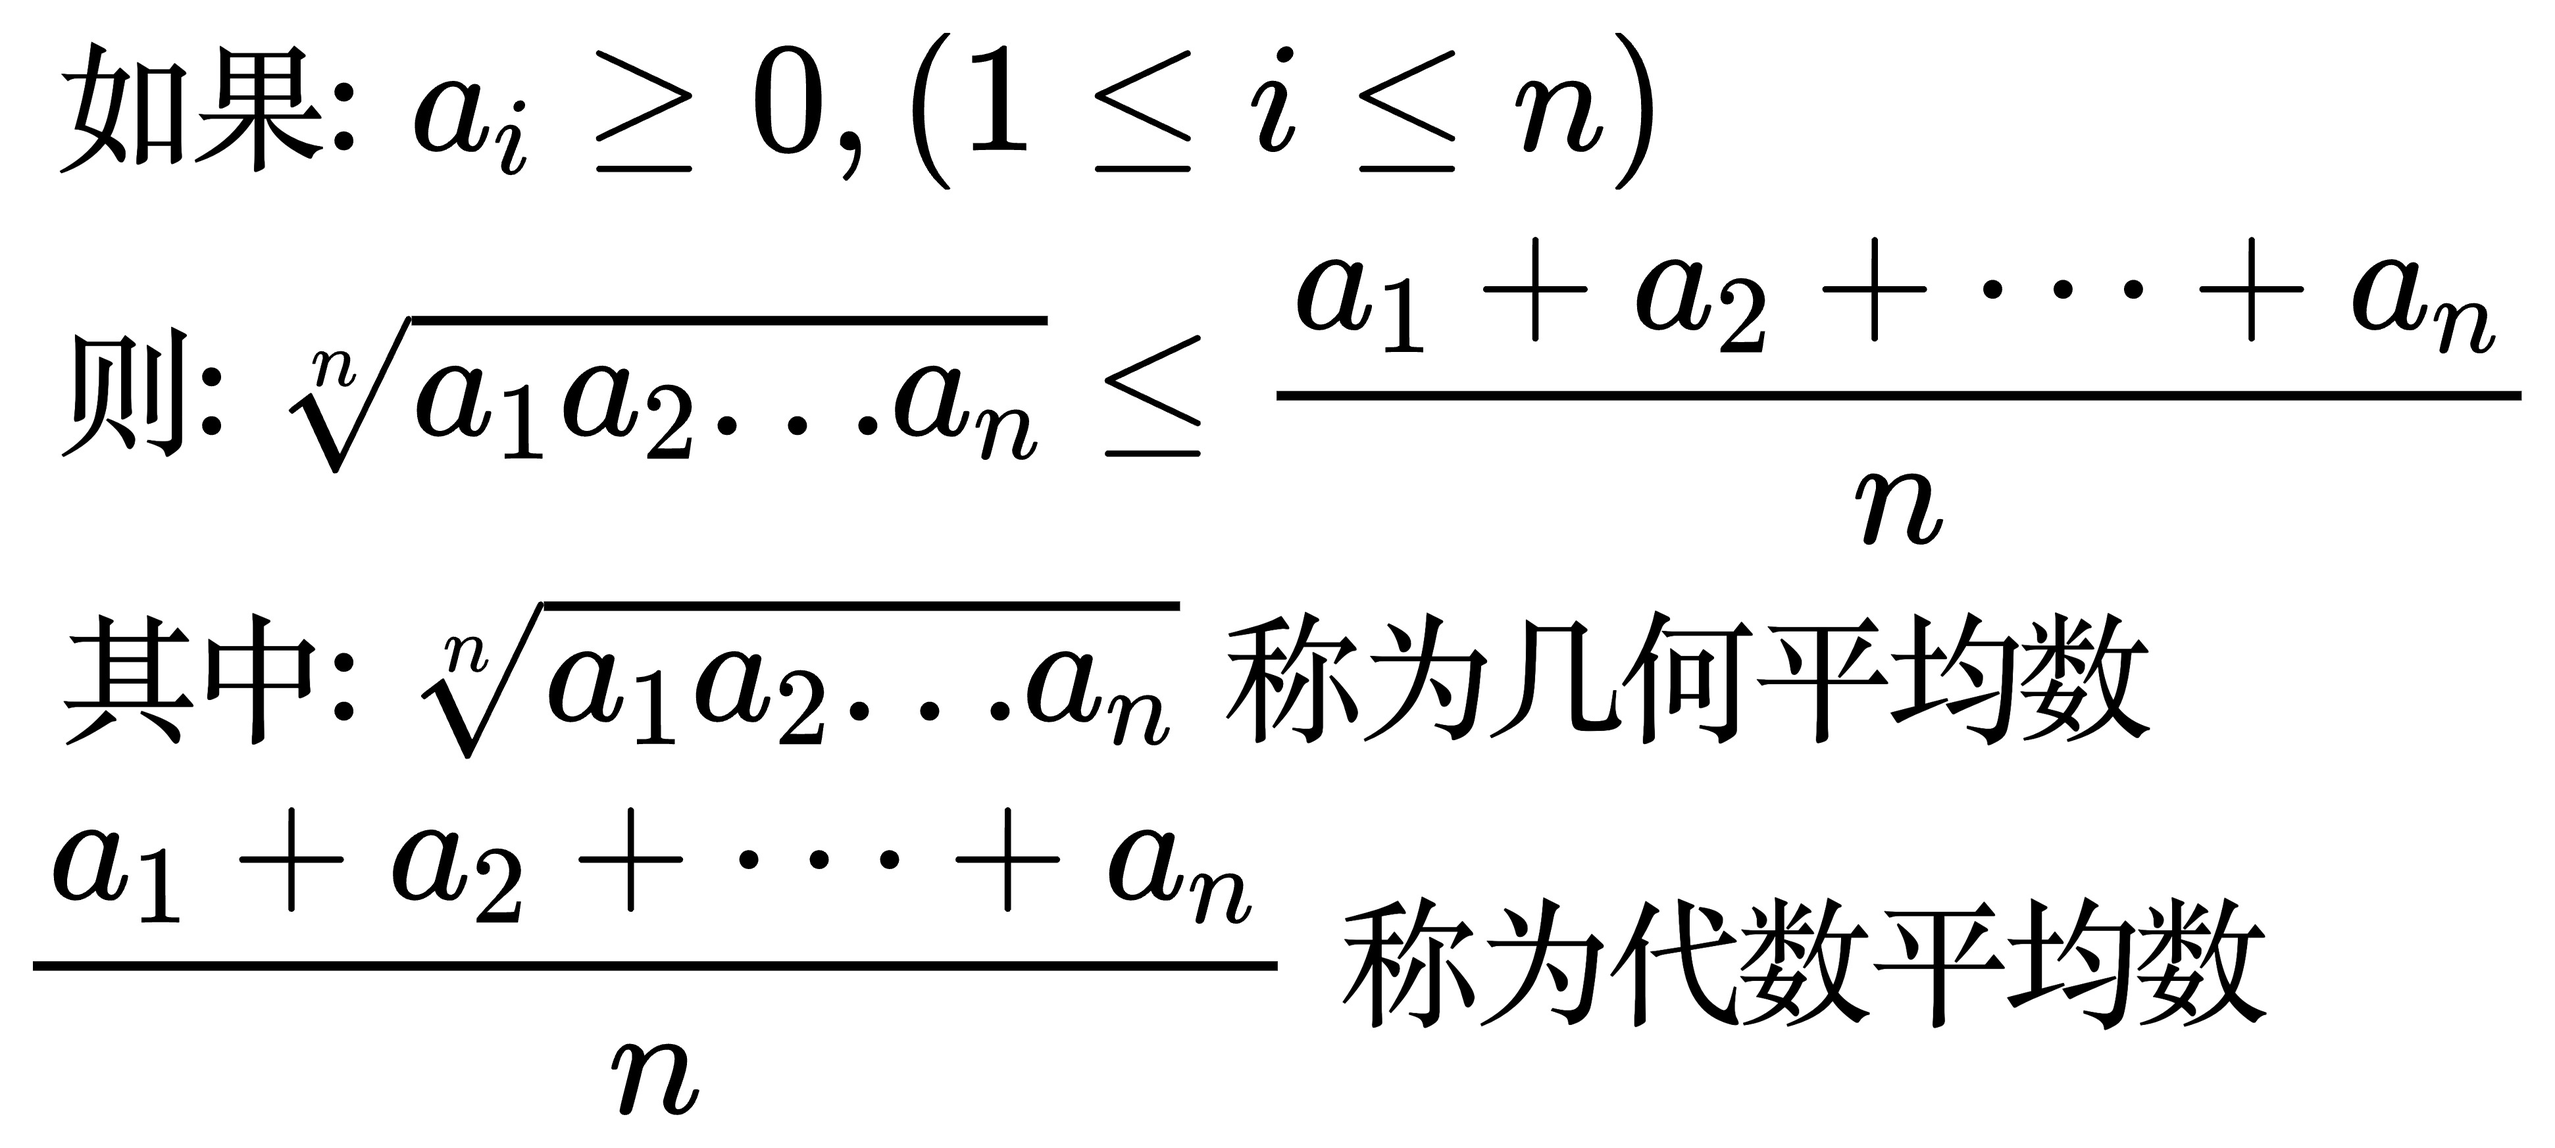
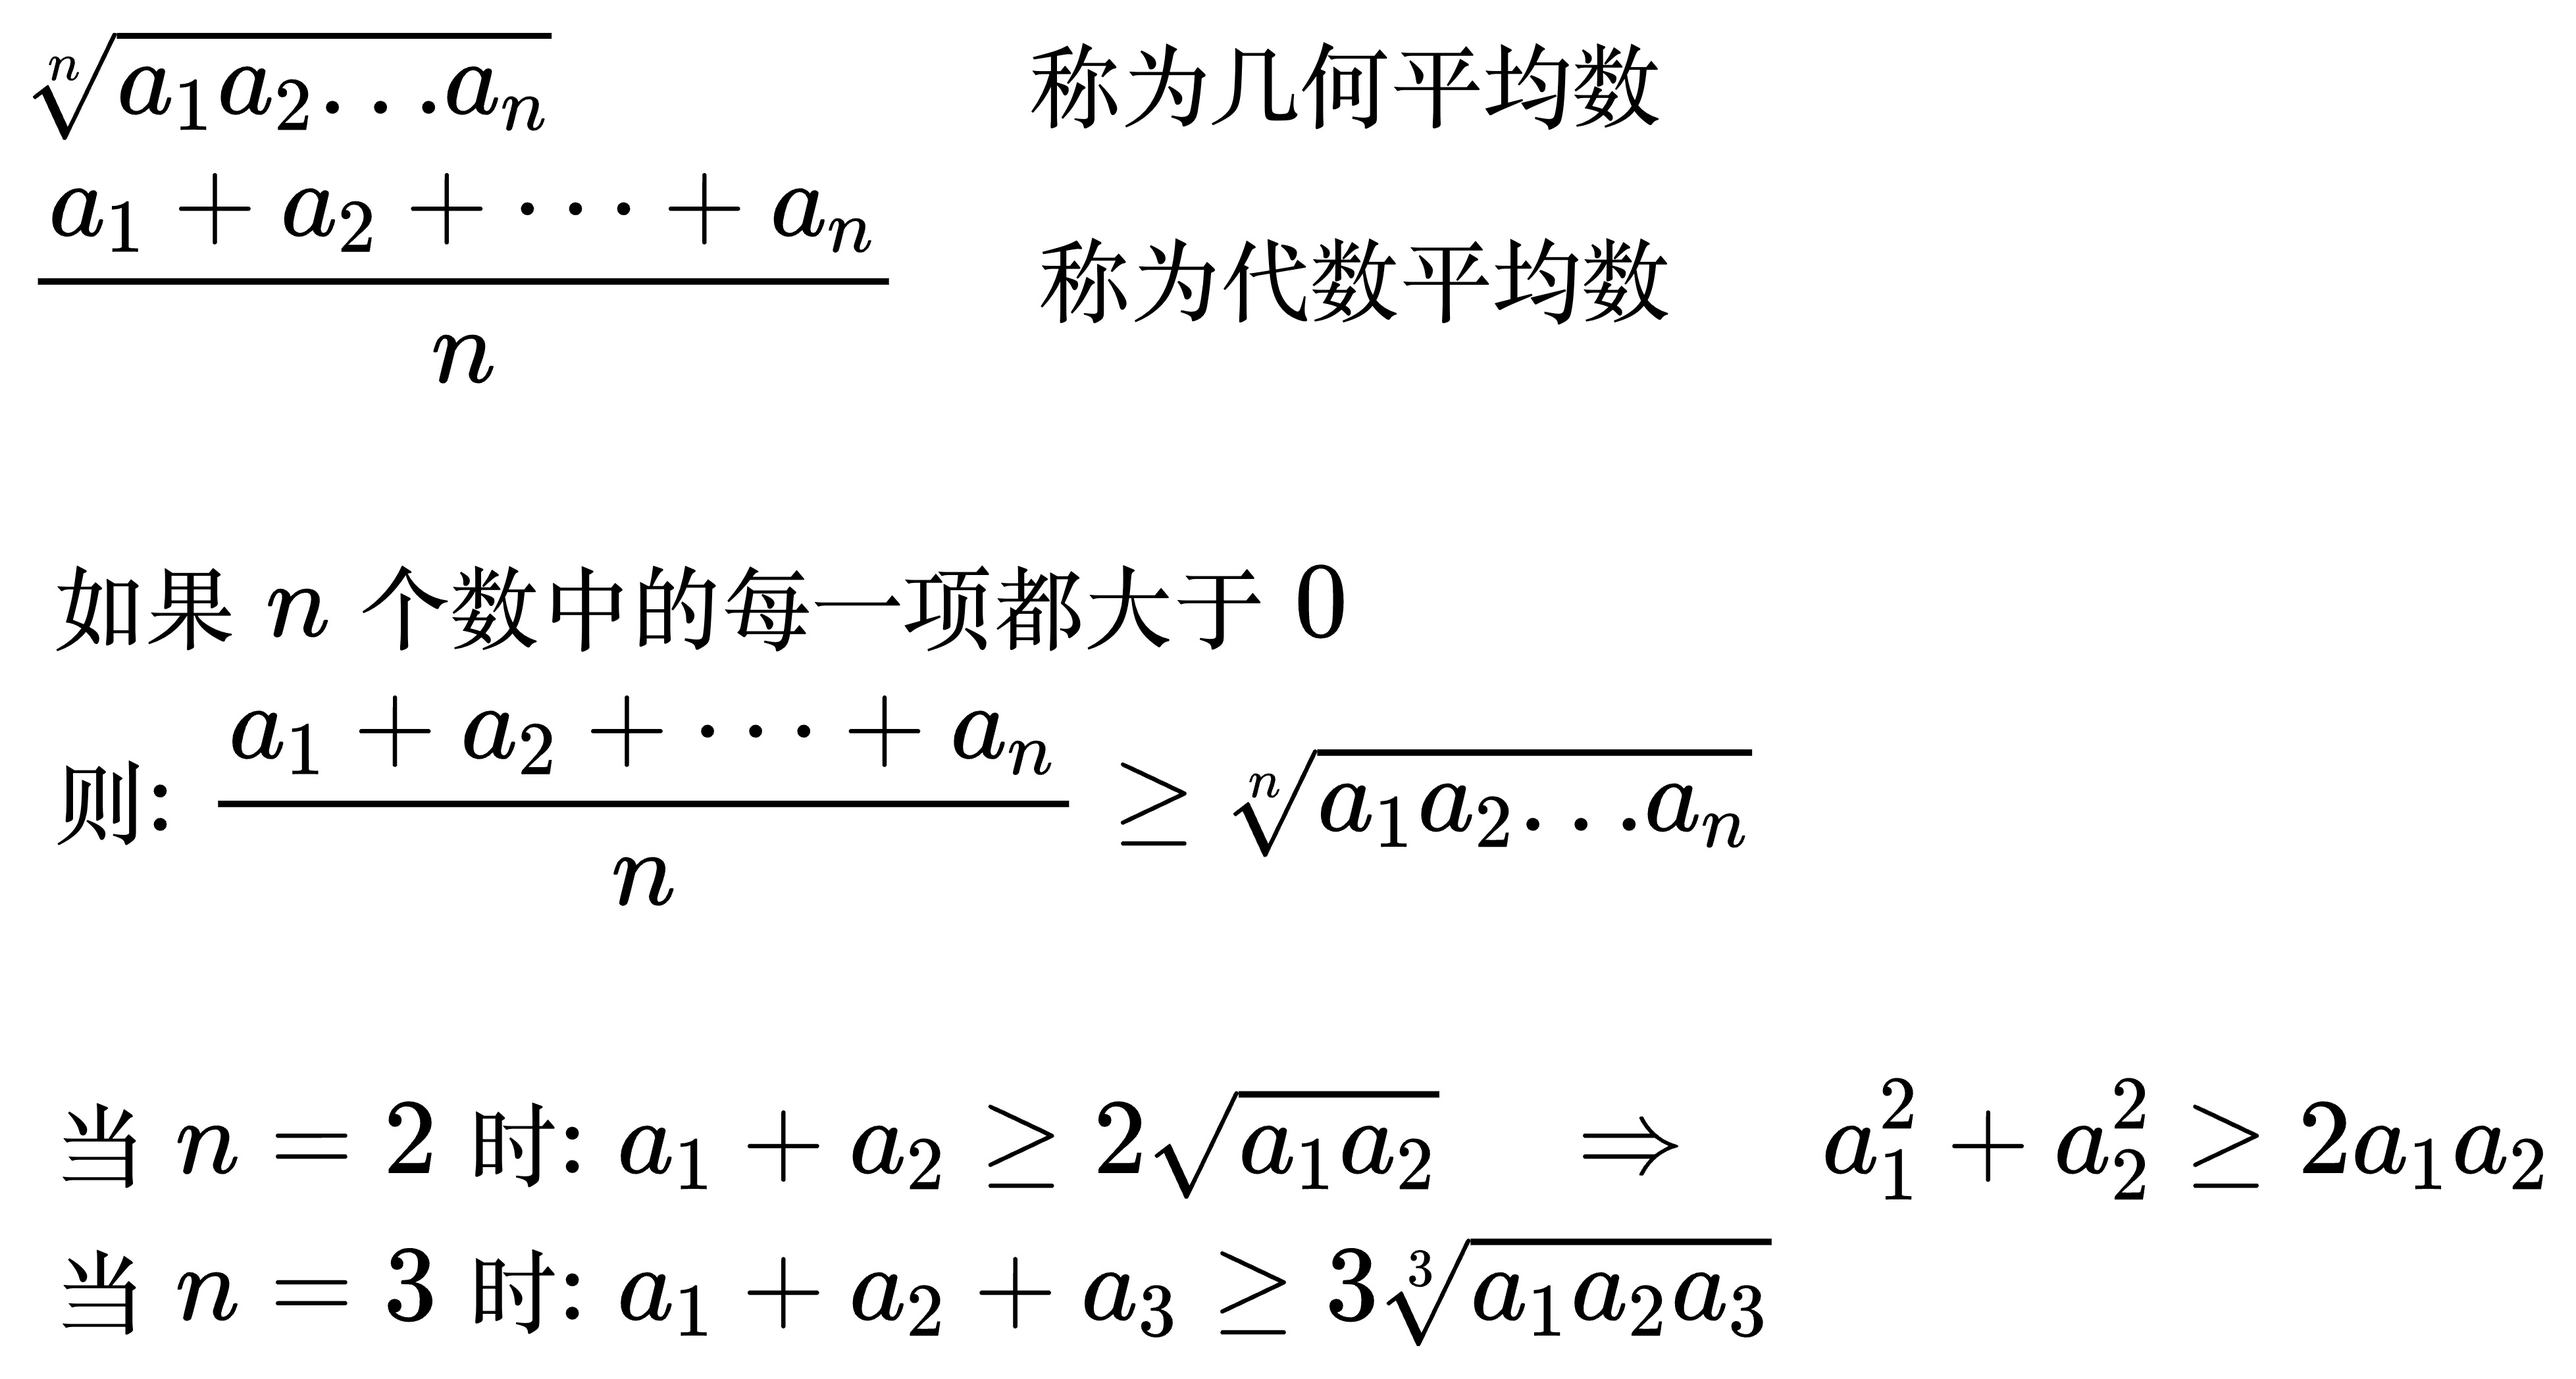
1

diff --git a/base/math/src/base/inequality.md b/base/math/src/base/inequality.md
@@ -1,20 +1,33 @@
 # 常见的不等式
 
-<!-- \begin{align}
-& 三角不等式: \\
+三角不等式
+
+<!--
+\begin{align}
 & 0 \le \left | \left | a \right | - \left | b \right | \right | \le \left | a \pm b \right | \le \left | a \right | + \left | b \right | \\
-\end{align} -->
+\end{align}
+-->
 
 ![](../img/ie1.jpg)
 
-<!-- \begin{align}
-& 如果: a_{i} \ge 0, (1 \le i \le n) \\
-& 则: \sqrt[n]{a_{1}a_{2} \dots a_{n}} \le \frac{a_{1} + a_{2} + \dots + a_{n}}{n} \\
-& 其中: \sqrt[n]{a_{1}a_{2} \dots a_{n}} 称为几何平均数 \\
-& \frac{a_{1} + a_{2} + \dots + a_{n}}{n} 称为代数平均数 \\
-\end{align} -->
+均值不等式
+
+<!--
+\begin{align}
+& \sqrt[n]{a_{1}a_{2} \dots a_{n}} \quad\quad \quad \quad \, 称为几何平均数 \\
+& \frac{a_{1} + a_{2} + \dots + a_{n}}{n} \quad 称为代数平均数 \\
+\\
+& 如果n个数中的每一项都大于0 \\
+& 则: \frac{a_{1} + a_{2} + \dots + a_{n}}{n} \ge \sqrt[n]{a_{1}a_{2} \dots a_{n}} \\
+\\
+& 当 n = 2 时: a_{1} + a_{2} \ge 2\sqrt{a_{1}a_{2}} \quad \Rightarrow \quad a_{1}^{2} + a_{2}^{2} \ge 2a_{1}a_{2} \\
+& 当 n = 3 时: a_{1} + a_{2} + a_{3} \ge 3\sqrt[3]{a_{1}a_{2}a_{3}} \\
+\end{align}
+-->
 
 ![](../img/ie2.jpg)
+
+解带绝对值的不等式
 
 <!--
 \begin{align}
@@ -38,3 +51,15 @@ x \gt a - b, & x \lt a
 -->
 
 ![](../img/ie3.jpg)
+
+常用的不等式
+
+<!--
+\begin{align}
+& (1) \; 当 0 \lt x \lt \frac{\pi}{2} 时: 0 \le \sin x \lt x \lt \tan x \\
+& (2) \; 当 x \gt -1 时: \ln (1 + x) \le x, 其中当且仅当 x = 0 时等号成立 \\
+& (3) \;\; e^{x} \ge 1 + x, 其中当且仅当 x = 0 时等号成立 \\
+\end{align}
+-->
+
+![](../img/ie4.jpg)

diff --git a/base/math/src/further_mathematics/limit_existence_criterion.md b/base/math/src/further_mathematics/limit_existence_criterion.md
@@ -172,3 +172,18 @@ x^{2}, & x \ge 1
 ![](../img/lec9.jpg)
 
 例题 2
+
+<!--
+\begin{align}
+& a_{1} = 2, a_{n + 1} = \frac{1}{2}(a_{n} + \frac{1}{a_{n}}), 证明: 数列有极限 \\
+\\
+& (1) 因为 a + b \ge 2\sqrt{ab}, 所以 a_{n} + \frac{1}{a_{n}} \ge 2 \\
+& 所以 \frac{1}{2}(a_{n} + \frac{1}{a_{n}}) \ge 1, 即 a_{n + 1} \ge 1 \\
+& 而 a_{1} = 2 \ge 1, 所以数列有下界 \\
+& (2) a_{n + 1} - a_{n} = \frac{1}{2}(a_{n} + \frac{1}{a_{n}}) - a_{n} = \frac{1 - a_{n}^{2}}{2a_{n}} \\
+& 因为 a_{n} \ge 1, 所以 \frac{1 - a_{n}^{2}}{2a_{n}} \le 0, 数列单调递减 \\
+& 根据单调有界定理, 数列有极限 \\
+\end{align}
+-->
+
+![](../img/lec10.jpg)

diff --git a/base/math/src/SUMMARY.md b/base/math/src/SUMMARY.md
@@ -15,3 +15,4 @@
   - [极限的性质](./further_mathematics/limit_attribute.md)
   - [无穷小与无穷大](./further_mathematics/infinity.md)
   - [极限存在准则](./further_mathematics/limit_existence_criterion.md)
+  - [两个重要极限](./further_mathematics/two_limit.md)

diff --git a/base/math/src/further_mathematics/two_limit.md b/base/math/src/further_mathematics/two_limit.md
@@ -1,0 +1,1 @@
+# 两个重要极限
